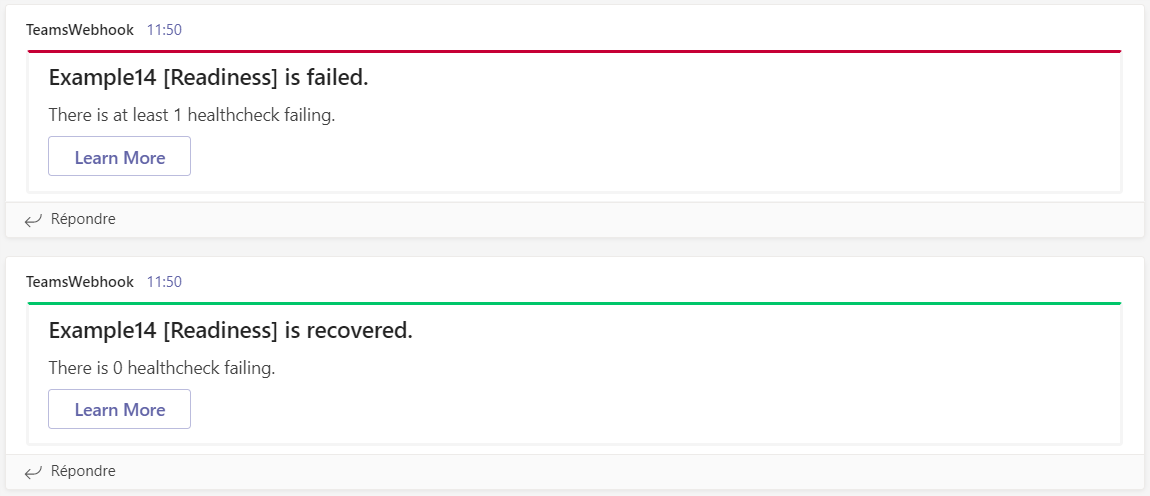
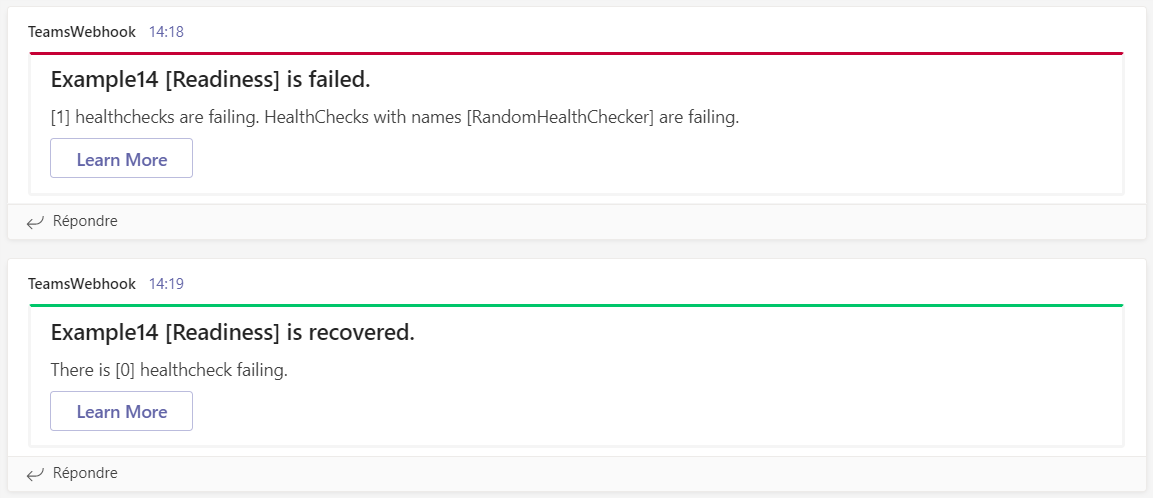
Enhancements for Examples 13, 14 and 15

diff --git a/WebApi/Example14/HealthChecksSettings.cs b/WebApi/Example14/HealthChecksSettings.cs
@@ -1,0 +1,80 @@
+using System;
+using System.Linq;
+using HealthChecks.UI.Core;
+
+namespace WebApi.Example14
+{
+    public class HealthChecksSettings
+    {
+        public RequestCatcherSettings RequestCatcherSettings { get; set; }
+
+        public MicrosoftTeamsSettings MicrosoftTeamsSettings { get; set; }
+    }
+
+    public class RequestCatcherSettings : IWebhookSettings
+    {
+        public string Name { get; set; } = "RequestCatcher";
+
+        public string Url { get; set; } = "!PUT-YOUR-REQUEST-CATCHER-URL-HERE!";
+
+        public string FailurePayload { get; set; } = "{ message: \"[[LIVENESS]] service is failed. [[FAILURE]] [[DESCRIPTIONS]]\"}";
+
+        public string RestorePayload { get; set; } = "{ message: \"[[LIVENESS]] service is recovered. There is [0] healthcheck failing.\"}";
+
+        public Func<UIHealthReport, bool> ShouldNotifyFunc { get; set; } = _ => DateTime.UtcNow.Hour >= 10 && DateTime.UtcNow.Hour <= 18;
+        
+        public Func<UIHealthReport, string> CustomMessageFunc { get; set; } = report =>
+        {
+            var failing = report.Entries.Where(e => e.Value.Status != UIHealthStatus.Healthy);
+            return $"[{failing.Count()}] healthchecks are failing.";
+        };
+        
+        public Func<UIHealthReport, string> CustomDescriptionFunc { get; set; } = report =>
+        {
+            var failing = report.Entries.Where(e => e.Value.Status != UIHealthStatus.Healthy);
+            return $"HealthChecks with names [{string.Join("/", failing.Select(f => f.Key))}] are failing.";
+        };
+    }
+
+    public class MicrosoftTeamsSettings : IWebhookSettings
+    {
+        public string Name { get; set; } = "MicrosoftTeams";
+
+        public string Url { get; set; } = "!PUT-YOUR-MICROSOFT-TEAMS-URL-HERE!";
+
+        public string FailurePayload { get; set; } = "{\r\n \"@type\": \"MessageCard\",\r\n \"themeColor\": \"c60035\",\r\n \"title\": \"[[LIVENESS]] is failed.\",\r\n \"text\": \"[[FAILURE]] [[DESCRIPTIONS]]\",\r\n \"potentialAction\": [\r\n {\r\n \"@type\": \"OpenUri\",\r\n \"name\": \"Learn More\",\r\n \"targets\": [\r\n { \"os\": \"default\", \"uri\": \"https://localhost:44313/healthchecks-ui\" }\r\n ]\r\n }\r\n ]\r\n}";
+
+        public string RestorePayload { get; set; } = "{\r\n \"@type\": \"MessageCard\",\r\n \"themeColor\": \"00c66a\",\r\n \"title\": \"[[LIVENESS]] is recovered.\",\r\n \"text\": \"There is [0] healthcheck failing.\",\r\n \"potentialAction\": [\r\n {\r\n \"@type\": \"OpenUri\",\r\n \"name\": \"Learn More\",\r\n \"targets\": [\r\n { \"os\": \"default\", \"uri\": \"https://localhost:44313/healthchecks-ui\" }\r\n ]\r\n }\r\n ]\r\n}";
+
+        public Func<UIHealthReport, bool> ShouldNotifyFunc { get; set; } = _ => DateTime.UtcNow.Hour >= 10 && DateTime.UtcNow.Hour <= 18;
+        
+        public Func<UIHealthReport, string> CustomMessageFunc { get; set; } = report =>
+        {
+            var failing = report.Entries.Where(e => e.Value.Status != UIHealthStatus.Healthy);
+            return $"[{failing.Count()}] healthchecks are failing.";
+        };
+        
+        public Func<UIHealthReport, string> CustomDescriptionFunc { get; set; } = report =>
+        {
+            var failing = report.Entries.Where(e => e.Value.Status != UIHealthStatus.Healthy);
+            return $"HealthChecks with names [{string.Join("/", failing.Select(f => f.Key))}] are failing.";
+        };
+    }
+
+    public interface IWebhookSettings
+    {
+        string Name { get; }
+
+        string Url { get; }
+
+        string FailurePayload { get; }
+
+        string RestorePayload { get; }
+
+        Func<UIHealthReport, bool> ShouldNotifyFunc { get; }
+
+        Func<UIHealthReport, string> CustomMessageFunc { get; }
+
+        Func<UIHealthReport, string> CustomDescriptionFunc { get; }
+    }
+}

diff --git a/WebApi/Example13/HealthChecksSettings.cs b/WebApi/Example13/HealthChecksSettings.cs
@@ -1,4 +1,7 @@
-namespace WebApi.Example13
+using System;
+using HealthChecks.UI.Core;
+
+namespace WebApi.Example13
 {
     public class HealthChecksSettings
     {
@@ -9,28 +12,52 @@
 
     public class RequestCatcherSettings : IWebhookSettings
     {
+        public string Name { get; set; } = "RequestCatcher";
+
         public string Url { get; set; } = "!PUT-YOUR-REQUEST-CATCHER-URL-HERE!";
 
         public string FailurePayload { get; set; } = "{ message: \"[[LIVENESS]] service is failed. [[FAILURE]]\"}";
 
         public string RestorePayload { get; set; } = "{ message: \"[[LIVENESS]] service is recovered. There is 0 healthcheck failing.\"}";
+
+        public Func<UIHealthReport, bool> ShouldNotifyFunc { get; set; } = null;
+        
+        public Func<UIHealthReport, string> CustomMessageFunc { get; set; } = null;
+        
+        public Func<UIHealthReport, string> CustomDescriptionFunc { get; set; } = null;
     }
 
     public class MicrosoftTeamsSettings : IWebhookSettings
     {
+        public string Name { get; set; } = "MicrosoftTeams";
+
         public string Url { get; set; } = "!PUT-YOUR-MICROSOFT-TEAMS-URL-HERE!";
 
         public string FailurePayload { get; set; } = "{\r\n \"@type\": \"MessageCard\",\r\n \"themeColor\": \"c60035\",\r\n \"title\": \"[[LIVENESS]] is failed.\",\r\n \"text\": \"[[FAILURE]]\",\r\n \"potentialAction\": [\r\n {\r\n \"@type\": \"OpenUri\",\r\n \"name\": \"Learn More\",\r\n \"targets\": [\r\n { \"os\": \"default\", \"uri\": \"https://localhost:44313/healthchecks-ui\" }\r\n ]\r\n }\r\n ]\r\n}";
 
         public string RestorePayload { get; set; } = "{\r\n \"@type\": \"MessageCard\",\r\n \"themeColor\": \"00c66a\",\r\n \"title\": \"[[LIVENESS]] is recovered.\",\r\n \"text\": \"There is 0 healthcheck failing.\",\r\n \"potentialAction\": [\r\n {\r\n \"@type\": \"OpenUri\",\r\n \"name\": \"Learn More\",\r\n \"targets\": [\r\n { \"os\": \"default\", \"uri\": \"https://localhost:44313/healthchecks-ui\" }\r\n ]\r\n }\r\n ]\r\n}";
+
+        public Func<UIHealthReport, bool> ShouldNotifyFunc { get; set; } = null;
+        
+        public Func<UIHealthReport, string> CustomMessageFunc { get; set; } = null;
+        
+        public Func<UIHealthReport, string> CustomDescriptionFunc { get; set; } = null;
     }
 
     public interface IWebhookSettings
     {
+        string Name { get; }
+
         string Url { get; }
 
         string FailurePayload { get; }
 
         string RestorePayload { get; }
+
+        Func<UIHealthReport, bool> ShouldNotifyFunc { get; }
+
+        Func<UIHealthReport, string> CustomMessageFunc { get; }
+
+        Func<UIHealthReport, string> CustomDescriptionFunc { get; }
     }
 }

diff --git a/WebApi/Example15/Startup.cs b/WebApi/Example15/Startup.cs
@@ -13,13 +13,10 @@ using Microsoft.Extensions.Hosting;
 using Microsoft.OpenApi.Models;
 using WebApi.HealthCheckers;
 
-namespace WebApi.Example05
+namespace WebApi.Example15
 {
     public class Startup
     {
-        private const int MaxHealthCheckRequests = 3;
-        private const int MaxHealthCheckEntries = 20;
-
         private const string HealthCheckLiveEndpoint = @"/healthchecks/live";
         private const string HealthCheckReadyEndpoint = @"/healthchecks/ready";
 
@@ -45,20 +42,9 @@ namespace WebApi.Example05
 
             services.AddHealthChecks()
                 .AddCheck<PingHealthChecker>(nameof(PingHealthChecker), tags: new List<string> {"ping"}, timeout: TimeSpan.FromSeconds(1))
-                .AddCheck<RandomHealthChecker>(nameof(RandomHealthChecker), tags: new List<string> {"random"}, timeout: TimeSpan.FromSeconds(1))
-                .AddCheck(name: "CpuChecker", check: () => HealthCheckResult.Healthy("OK"), tags: new List<string> {"cpu"}, timeout: TimeSpan.FromSeconds(1))
-                .AddCheck(name: "DiskChecker", check: () => HealthCheckResult.Degraded("UNK"), tags: new List<string> {"disk"}, timeout: TimeSpan.FromSeconds(1))
-                .AddCheck(name: "MemoryChecker", check: () => HealthCheckResult.Unhealthy("KO"), tags: new List<string> {"memory"}, timeout: TimeSpan.FromSeconds(1));
+                .AddCheck<RandomHealthChecker>(nameof(RandomHealthChecker), tags: new List<string> {"random"}, timeout: TimeSpan.FromSeconds(1));
 
-            services.AddHealthChecksUI(setupSettings: settings =>
-            {
-                settings.SetApiMaxActiveRequests(MaxHealthCheckRequests);
-                settings.MaximumHistoryEntriesPerEndpoint(MaxHealthCheckEntries);
-                settings.SetEvaluationTimeInSeconds(TimeSpan.FromSeconds(10).Seconds);
-                settings.SetMinimumSecondsBetweenFailureNotifications(TimeSpan.FromMinutes(1).Seconds);
-                settings.AddHealthCheckEndpoint($"{ExampleName} [Liveness]", HealthCheckLiveEndpoint);
-                settings.AddHealthCheckEndpoint($"{ExampleName} [Readiness]", HealthCheckReadyEndpoint);
-            }).AddInMemoryStorage();
+            services.AddHealthChecksUI().AddInMemoryStorage();
         }
 
         public void Configure(IApplicationBuilder app, IWebHostEnvironment env)

diff --git a/WebApi/Example14/Startup.cs b/WebApi/Example14/Startup.cs
@@ -17,8 +17,14 @@ namespace WebApi.Example14
 {
     public class Startup
     {
+        private const int MaxHealthCheckRequests = 3;
+        private const int MaxHealthCheckEntries = 20;
+
         private const string HealthCheckLiveEndpoint = @"/healthchecks/live";
         private const string HealthCheckReadyEndpoint = @"/healthchecks/ready";
+
+        private static readonly RequestCatcherSettings RequestCatcherWebhook = new();
+        private static readonly MicrosoftTeamsSettings MicrosoftTeamsWebhook = new();
 
         private string ExampleName => GetType().Namespace?.Split('.').LastOrDefault();
 
@@ -44,7 +50,16 @@ namespace WebApi.Example14
                 .AddCheck<PingHealthChecker>(nameof(PingHealthChecker), tags: new List<string> {"ping"}, timeout: TimeSpan.FromSeconds(1))
                 .AddCheck<RandomHealthChecker>(nameof(RandomHealthChecker), tags: new List<string> {"random"}, timeout: TimeSpan.FromSeconds(1));
 
-            services.AddHealthChecksUI().AddInMemoryStorage();
+            services.AddHealthChecksUI(setupSettings: settings =>
+            {
+                settings.SetApiMaxActiveRequests(MaxHealthCheckRequests);
+                settings.MaximumHistoryEntriesPerEndpoint(MaxHealthCheckEntries);
+                settings.SetEvaluationTimeInSeconds(TimeSpan.FromSeconds(10).Seconds);
+                settings.SetMinimumSecondsBetweenFailureNotifications(TimeSpan.FromMinutes(1).Seconds);
+                settings.AddHealthCheckEndpoint($"{ExampleName} [Liveness]", HealthCheckLiveEndpoint);
+                settings.AddHealthCheckEndpoint($"{ExampleName} [Readiness]", HealthCheckReadyEndpoint);
+                settings.AddWebhookNotifications(RequestCatcherWebhook, MicrosoftTeamsWebhook);
+            }).AddInMemoryStorage();
         }
 
         public void Configure(IApplicationBuilder app, IWebHostEnvironment env)

diff --git a/WebApi/Examples.cs b/WebApi/Examples.cs
@@ -22,8 +22,9 @@ namespace WebApi
             {typeof(Example10.Startup), "Example10/healthchecks.json"},         // EXAMPLE 10 with ui (json configuration, two endpoints, relative uris, memory storage, sqlServer checks)
             {typeof(Example11.Startup), "Example11/healthchecks.json"},         // EXAMPLE 11 with swagger and ui (json configuration, two endpoints, relative uris, memory storage, sqlServer checks)
             {typeof(Example12.Startup), "Example12/healthchecks.json"},         // EXAMPLE 12 with swagger, publishers and ui (json configuration, two endpoints, relative uris, memory storage, sqlServer checks)
-            {typeof(Example13.Startup), null},                                  // EXAMPLE 13 with ui (fluent configuration, two endpoints, alerts microsoft-teams/request-catcher)
-            {typeof(Example14.Startup), "Example14/healthchecks.json"},         // EXAMPLE 14 with ui (json configuration, two endpoints, alerts microsoft-teams/request-catcher)
+            {typeof(Example13.Startup), null},                                  // EXAMPLE 13 with ui (fluent configuration, two endpoints, basic alerts microsoft-teams/request-catcher)
+            {typeof(Example14.Startup), null},                                  // EXAMPLE 14 with ui (fluent configuration, two endpoints, advanced alerts microsoft-teams/request-catcher)
+            {typeof(Example15.Startup), "Example15/healthchecks.json"},         // EXAMPLE 14 with ui (json configuration, two endpoints, basic alerts microsoft-teams/request-catcher)
         };
 
         public static (Type, string) GetStartupConfiguration()
@@ -48,7 +49,8 @@ namespace WebApi
             Example11,
             Example12,
             Example13,
-            Example14
+            Example14,
+            Example15
         }
     }
 }

diff --git a/WebApi/Example13/Startup.cs b/WebApi/Example13/Startup.cs
@@ -18,6 +18,7 @@ namespace WebApi.Example13
     public class Startup
     {
         private const int MaxHealthCheckRequests = 3;
+        private const int MaxHealthCheckEntries = 20;
 
         private const string HealthCheckLiveEndpoint = @"/healthchecks/live";
         private const string HealthCheckReadyEndpoint = @"/healthchecks/ready";
@@ -52,12 +53,12 @@ namespace WebApi.Example13
             services.AddHealthChecksUI(setupSettings: settings =>
             {
                 settings.SetApiMaxActiveRequests(MaxHealthCheckRequests);
-                settings.SetEvaluationTimeInSeconds(TimeSpan.FromSeconds(30).Seconds);
+                settings.MaximumHistoryEntriesPerEndpoint(MaxHealthCheckEntries);
+                settings.SetEvaluationTimeInSeconds(TimeSpan.FromSeconds(10).Seconds);
                 settings.SetMinimumSecondsBetweenFailureNotifications(TimeSpan.FromMinutes(1).Seconds);
                 settings.AddHealthCheckEndpoint($"{ExampleName} [Liveness]", HealthCheckLiveEndpoint);
                 settings.AddHealthCheckEndpoint($"{ExampleName} [Readiness]", HealthCheckReadyEndpoint);
-                settings.AddWebhookNotification(ExampleName, RequestCatcherWebhook.Url, RequestCatcherWebhook.FailurePayload, RequestCatcherWebhook.RestorePayload);
-                settings.AddWebhookNotification(ExampleName, MicrosoftTeamsWebhook.Url, MicrosoftTeamsWebhook.FailurePayload, MicrosoftTeamsWebhook.RestorePayload);
+                settings.AddWebhookNotifications(RequestCatcherWebhook, MicrosoftTeamsWebhook);
             }).AddInMemoryStorage();
         }
 

diff --git a/WebApi/Example04/Startup.cs b/WebApi/Example04/Startup.cs
@@ -18,6 +18,7 @@ namespace WebApi.Example04
     public class Startup
     {
         private const int MaxHealthCheckRequests = 3;
+        private const int MaxHealthCheckEntries = 20;
 
         private const string HealthCheckEndpoint = @"/healthchecks";
         private static readonly string HealthCheckEndpointUrl = @$"https://localhost:44313{HealthCheckEndpoint}";
@@ -52,9 +53,10 @@ namespace WebApi.Example04
             services.AddHealthChecksUI(setupSettings: settings =>
             {
                 settings.SetApiMaxActiveRequests(MaxHealthCheckRequests);
+                settings.MaximumHistoryEntriesPerEndpoint(MaxHealthCheckEntries);
                 settings.SetEvaluationTimeInSeconds(TimeSpan.FromSeconds(10).Seconds);
+                settings.SetMinimumSecondsBetweenFailureNotifications(TimeSpan.FromMinutes(1).Seconds);
                 settings.AddHealthCheckEndpoint(ExampleName, HealthCheckEndpointUrl);
-                settings.SetMinimumSecondsBetweenFailureNotifications(TimeSpan.FromSeconds(30).Seconds);
             }).AddInMemoryStorage();
         }
 

diff --git a/WebApi/Example13/Extensions.cs b/WebApi/Example13/Extensions.cs
@@ -1,0 +1,20 @@
+using System;
+using HealthChecks.UI.Configuration;
+
+namespace WebApi.Example13
+{
+    public static class Extensions
+    {
+        public static Settings AddWebhookNotifications(this Settings settings, params IWebhookSettings[] webhooks)
+        {
+            foreach (var webhook in webhooks ?? Array.Empty<IWebhookSettings>())
+            {
+                settings.AddWebhookNotification(webhook.Name, webhook.Url, webhook.FailurePayload,
+                    webhook.RestorePayload, webhook.ShouldNotifyFunc, webhook.CustomMessageFunc,
+                    webhook.CustomDescriptionFunc);
+            }
+
+            return settings;
+        }
+    }
+}

diff --git a/WebApi/Example14/Extensions.cs b/WebApi/Example14/Extensions.cs
@@ -1,0 +1,20 @@
+using System;
+using HealthChecks.UI.Configuration;
+
+namespace WebApi.Example14
+{
+    public static class Extensions
+    {
+        public static Settings AddWebhookNotifications(this Settings settings, params IWebhookSettings[] webhooks)
+        {
+            foreach (var webhook in webhooks ?? Array.Empty<IWebhookSettings>())
+            {
+                settings.AddWebhookNotification(webhook.Name, webhook.Url, webhook.FailurePayload,
+                    webhook.RestorePayload, webhook.ShouldNotifyFunc, webhook.CustomMessageFunc,
+                    webhook.CustomDescriptionFunc);
+            }
+
+            return settings;
+        }
+    }
+}

diff --git a/README.md b/README.md
@@ -111,11 +111,21 @@ Exploring healthchecks capabilities with .net 5.0
 >>
 >> 2 endpoints accessibles on `/healthchecks/live`, `/healthchecks/ready`
 >>
->> 2 webhooks (fluent config) for alerts on [microsoft-teams](https://www.microsoft.com/en-ww/microsoft-teams/download-app) and [request-catcher](https://requestcatcher.com/)
+>> 2 webhooks (basic fluent config) for alerts on [microsoft-teams](https://www.microsoft.com/en-ww/microsoft-teams/download-app) and [request-catcher](https://requestcatcher.com/)
 >>
 >> ui (fluent config, inmemory storage) served on `/healthchecks-ui`
 >
 > :writing_hand: `Example14`
+>
+>> 2 custom checkers
+>>
+>> 2 endpoints accessibles on `/healthchecks/live`, `/healthchecks/ready`
+>>
+>> 2 webhooks (advanced fluent config) for alerts on [microsoft-teams](https://www.microsoft.com/en-ww/microsoft-teams/download-app) and [request-catcher](https://requestcatcher.com/)
+>>
+>> ui (fluent config, inmemory storage) served on `/healthchecks-ui`
+>
+> :writing_hand: `Example15`
 >
 >> 2 custom checkers
 >>
